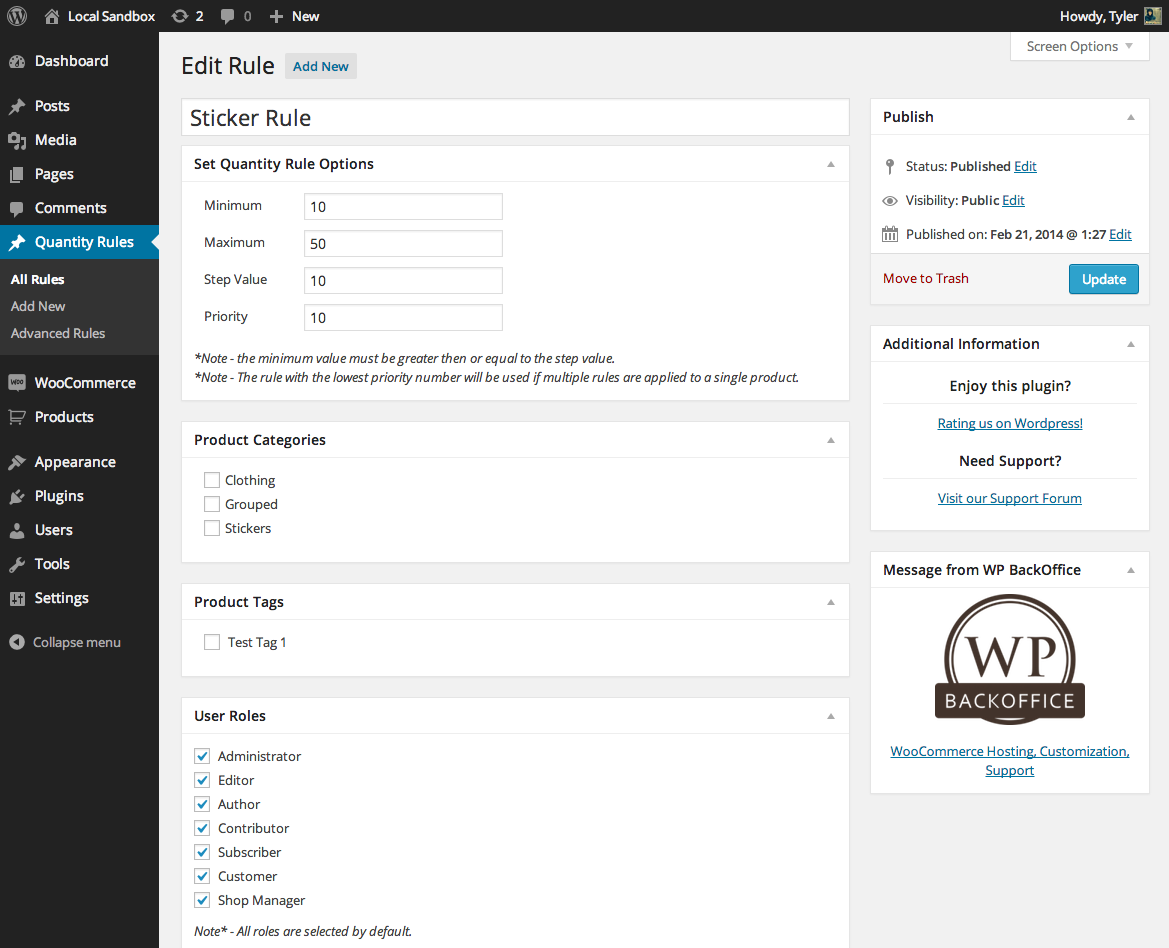
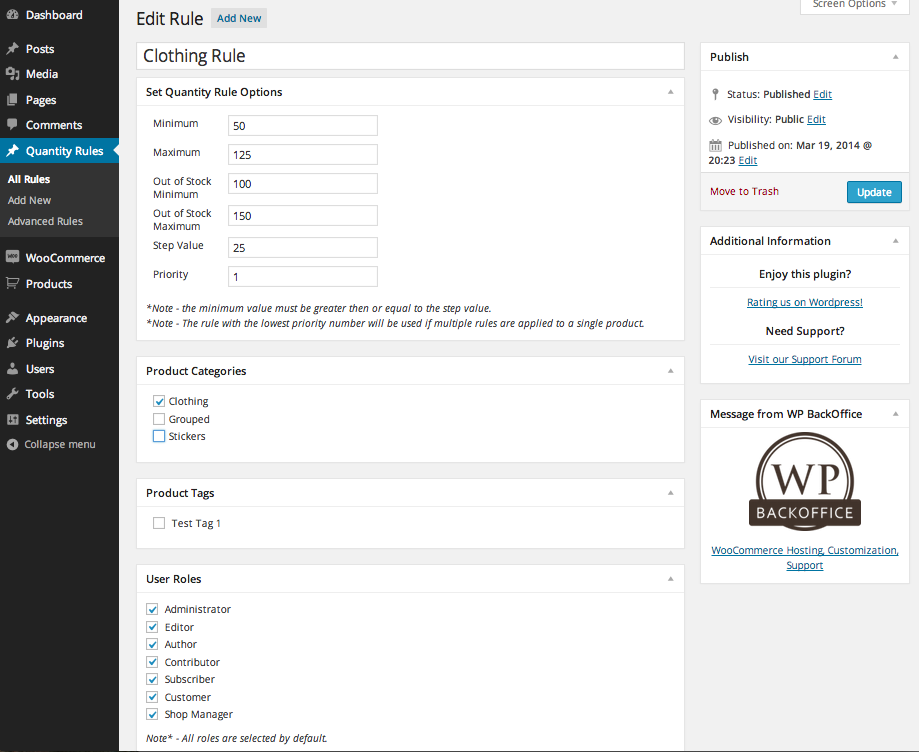
Updated out of stock functionality
Added to all possible rule groups

Changed region(s): [[0.0, 0.0, 1.0, 1.0], [0.0, 0.6729, 0.0914, 0.7035]]

diff --git a/includes/class-ipq-advanced-rules.php b/includes/class-ipq-advanced-rules.php
@@ -97,18 +97,38 @@ class IPQ_Advanced_Rules {
 		if ( isset( $_POST['ipq_site_max'] )) {
 			$max = wpbo_validate_number( $_POST['ipq_site_max'] );
 		}
+		
+		if ( isset( $_POST['ipq_site_min_oos'] )) {
+			$min_oos = wpbo_validate_number( $_POST['ipq_site_min_oos'] );
+		}
+		
+		if ( isset( $_POST['ipq_site_max_oos'] )) {
+			$max_oos = wpbo_validate_number( $_POST['ipq_site_max_oos'] );
+		}
 
-		/* Make sure min >= step */
+		// Make sure min >= step
 		if ( isset( $step ) and isset( $min ) ) {
 			if ( $min < $step ) {
 				$min = $step;
 			}
 		}
 		
-		/* Make sure min <= max */
+		// Make sure min <= max
 		if ( isset( $step ) and isset( $max ) ) {
 			if ( $min > $max and $max != '' and $max != 0 ) {
 				$max = $min;
+			}
+		}
+		
+		// Make sure min_oos <= max and max_oos
+		if ( isset( $min_oos ) and $min_oos != 0 ) {
+			if ( isset( $max_oos ) and $max_oos != 0 and
+				$min_oos > $max_oos ) {
+
+				$max_oos = $min_oos;
+			} else if ( !isset( $max_oos ) and isset ( $max ) and
+				$max != 0 and $min_oos > $max ) {
+				$min_oos = $max;
 			}
 		}
 
@@ -122,15 +142,19 @@ class IPQ_Advanced_Rules {
 			$settings['ipq_site_step'] = strip_tags( $step );
 		} 
 		
-		/* Make sure Max > Min */
+		// Site Max
 		if( isset( $_POST['ipq_site_max'] )) {
-			
-			if ( isset( $min ) and $max < $min and $max != 0 and $max != '' ) {
-				$max = $min;
-			}
-
-			// Site Maximum
 			$settings['ipq_site_max'] = strip_tags( $max );
+		}
+		
+		// Site Min OOS
+		if( isset( $_POST['ipq_site_min_oos'] )) {
+			$settings['ipq_site_min_oos'] = strip_tags( $min_oos );
+		}
+		
+				// Site Max
+		if( isset( $_POST['ipq_site_max_oos'] )) {
+			$settings['ipq_site_max_oos'] = strip_tags( $max_oos );
 		}
 
 		// Update Settings
@@ -148,7 +172,7 @@ class IPQ_Advanced_Rules {
 		if ($options == false) {
 			$options = array();
 		}
-		
+
 		extract($options);
 		$qty_text_default = "Minimum Qty: %MIN%";
 		
@@ -178,6 +202,20 @@ class IPQ_Advanced_Rules {
 						<th>Site Wide Product Maximum</th>
 						<td><input type='number' name='ipq_site_max' id='ipq_site_max'
 							value='<?php if ( isset( $ipq_site_max ) and $ipq_site_max != '' ) echo $ipq_site_max; ?>'
+						 /></td>
+					</tr>
+					
+					<tr>
+						<th>Site Wide Product Minimum Out of Stock</th>
+						<td><input type='number' name='ipq_site_min_oos' id='ipq_site_min_oos'
+							value='<?php if ( isset( $ipq_site_min_oos ) and $ipq_site_min_oos != '' ) echo $ipq_site_min_oos; ?>'
+						 /></td>
+					</tr>
+					
+					<tr>
+						<th>Site Wide Product Maximum Out of Stock</th>
+						<td><input type='number' name='ipq_site_max_oos' id='ipq_site_max_oos'
+							value='<?php if ( isset( $ipq_site_max_oos ) and $ipq_site_max_oos != '' ) echo $ipq_site_max_oos; ?>'
 						 /></td>
 					</tr>
 					
@@ -237,6 +275,10 @@ class IPQ_Advanced_Rules {
 					<td><input type='text' name='ipq_qty_class' id='ipq_qty_class' value='<?php if ( isset( $ipq_qty_class ) and $ipq_qty_class != '' ) echo $ipq_qty_class; ?>' /></td>
 				</tr>
 				
+				<tr>
+					<th>Message Shortcode</th>
+					<td>Place in product content to display message <strong>[wpbo_quantity_message]</strong></td>
+				</tr>
 			</table>
 			
 			<p class="submit" style="clear: both;">

diff --git a/includes/ipq-functions.php b/includes/ipq-functions.php
@@ -249,6 +249,18 @@ function wpbo_get_value_from_rule( $type, $product, $rule ) {
 			$max = '';
 		}
 
+		if( isset( $options['ipq_site_min_oos'] ) ) {
+			$min_oos = $options['ipq_site_min_oos'];
+		} else {
+			$min_oos = '';
+		}
+		
+		if( isset( $options['ipq_site_max_oos'] ) ) {
+			$max_oos = $options['ipq_site_max_oos'];
+		} else {
+			$max_oos = '';
+		}
+		
 		if( isset( $options['ipq_site_step'] ) ) {
 			$step = $options['ipq_site_step'];			
 		} else {
@@ -259,7 +271,9 @@ function wpbo_get_value_from_rule( $type, $product, $rule ) {
 			case 'all':
 				return array( 
 					'min_value' => $min, 
-					'max_value' => $max, 
+					'max_value' => $max,
+					'min_oos' 	=> $min_oos,
+					'max_oos' 	=> $max_oos,
 					'step' 		=> $step
 				);
 				break;
@@ -270,6 +284,14 @@ function wpbo_get_value_from_rule( $type, $product, $rule ) {
 			
 			case 'max': 
 				return array( 'max' => $max );		
+				break;
+			
+			case 'min_oos': 
+				return array( 'min_oos' => $min_oos );		
+				break;
+				
+			case 'max_oos': 
+				return array( 'max_oos' => $max_oos );		
 				break;
 				
 			case 'step':
@@ -290,6 +312,8 @@ function wpbo_get_value_from_rule( $type, $product, $rule ) {
 				return array( 
 						'min_value' => get_post_meta( $rule->ID, '_min', true ),
 						'max_value' => get_post_meta( $rule->ID, '_max', true ),
+						'min_oos'	=> get_post_meta( $rule->ID, '_min_oos', true ),
+						'max_oos'	=> get_post_meta( $rule->ID, '_max_oos', true ),
 						'step' 		=> get_post_meta( $rule->ID, '_step', true ),
 						'priority'  => get_post_meta( $rule->ID, '_priority', true ),
 						'roles' 	=> get_post_meta( $rule->ID, '_roles', true )
@@ -302,6 +326,14 @@ function wpbo_get_value_from_rule( $type, $product, $rule ) {
 			
 			case 'max': 
 				return get_post_meta( $rule->ID, '_max', true );
+				break;
+			
+			case 'min_oos': 
+				return get_post_meta( $rule->ID, '_min_oos', true );
+				break;
+				
+			case 'max_oos': 
+				return get_post_meta( $rule->ID, '_max_oos', true );
 				break;
 				
 			case 'step':
@@ -324,6 +356,7 @@ function wpbo_get_value_from_rule( $type, $product, $rule ) {
 */
 function wpbo_validate_number( $number ) {
 	
+	$number = stripslashes( $number );
 	$number = intval( $number );
 	
 	if ( $number == 0 ) {

diff --git a/includes/class-ipq-post-type.php b/includes/class-ipq-post-type.php
@@ -186,6 +186,8 @@ class IPQ_Quantity_Rule_Post_Type {
 		
 		$min  = get_post_meta( $post->ID, '_min', true);
 		$max  = get_post_meta( $post->ID, '_max', true);
+		$min_oos = get_post_meta( $post->ID, '_min_oos', true );
+		$max_oos = get_post_meta( $post->ID, '_max_oos', true );		
 		$step = get_post_meta( $post->ID, '_step', true);
 		$priority = get_post_meta( $post->ID, '_priority', true);
 		
@@ -199,6 +201,12 @@ class IPQ_Quantity_Rule_Post_Type {
 			
 				<label for="max">Maximum</label>
 				<input type="number" name="max" id="max" value="<?php echo $max ?>" />
+				
+				<label for="_wpbo_minimum_oos">Out of Stock Minimum</label>
+				<input type="number" name="min_oos" value="<?php echo $min_oos ?>" />
+				
+				<label for="_wpbo_maximum_oos">Out of Stock Maximum</label>
+				<input type="number" name="max_oos" value="<?php echo $max_oos ?>" />
 				
 				<label for="step">Step Value</label>
 				<input type="number" name="step" id="step" value="<?php echo $step ?>" />
@@ -499,9 +507,15 @@ class IPQ_Quantity_Rule_Post_Type {
 		}
 		*/
 		
+		// Get Min Out of Stock
+		if( isset( $_POST['min_oos'] ) ) {
+			$min_oos = $_POST['min_oos'];
+			update_post_meta( $post_id, '_min_oos', stripslashes( $min_oos ) );
+		}
+		
 		// Update Min
 		if ( isset( $min ) ) {
-			update_post_meta( $post_id, '_min', $min );
+			update_post_meta( $post_id, '_min', stripslashes( $min ) );
 		}
 		
 		// Update Max
@@ -514,6 +528,24 @@ class IPQ_Quantity_Rule_Post_Type {
 			}
 			
 			update_post_meta( $post_id, '_max', wpbo_validate_number( $max ) );
+		}
+		
+		// Update Max OOS
+		if ( isset( $_POST['max_oos'] ) ) {
+			$max_oos = $_POST['max_oos'];
+			
+			// Max must be bigger then min
+			if ( isset( $min_oos ) and $min_oos != 0 ) {
+				if ( $min_oos > $max_oos )
+					$max_oos = $min_oos;
+				
+			} elseif ( isset( $min ) and $min != 0 ){
+				if ( $min > $max_oos ) {
+					$max_oos = $min;
+				}
+			}
+				
+			update_post_meta( $post_id, '_max_oos', wpbo_validate_number( $max_oos ) );
 		}
 		
 		// Update Step

diff --git a/includes/class-ipq-product-meta-box.php b/includes/class-ipq-product-meta-box.php
@@ -98,6 +98,8 @@ class IPQ_Quantity_Meta_Boxes {
 						<th>Rule</th>
 						<th>Min</th>
 						<th>Max</th>
+						<th>Min OOS</th>
+						<th>Max OOS</th>
 						<th>Step</th>
 						<th>Priority</th>
 					</tr>
@@ -106,6 +108,8 @@ class IPQ_Quantity_Meta_Boxes {
 						<td><a href='<?php echo admin_url( 'edit.php?post_type=quantity-rule&page=class-ipq-advanced-rules.php' ) ?>'>Site Wide Rule</a></td>
 						<td><?php echo $values['min_value'] ?></td>
 						<td><?php echo $values['max_value'] ?></td>
+						<td><?php echo $values['min_oos'] ?></td>
+						<td><?php echo $values['max_oos'] ?></td>
 						<td><?php echo $values['step'] ?></td>
 						<td></td>
 					</tr>
@@ -131,6 +135,8 @@ class IPQ_Quantity_Meta_Boxes {
 						<th>Rule</th>
 						<th>Min</th>
 						<th>Max</th>
+						<th>Min OOS</th>
+						<th>Max OOS</th>
 						<th>Step</th>
 						<th>Priority</th>
 					</tr>
@@ -144,10 +150,14 @@ class IPQ_Quantity_Meta_Boxes {
 							<td><a href='<?php echo get_edit_post_link( $rule->ID ) ?>' target="_blank"><?php echo $rule->post_title ?></a></td>
 							<td><?php echo $values['min_value'] ?></td>
 							<td><?php echo $values['max_value'] ?></td>
+							<td><?php echo $values['min_oos'] ?></td>
+							<td><?php echo $values['max_oos'] ?></td>							
 							<td><?php echo $values['step'] ?></td>
 							<td><?php echo $values['priority'] ?></td>
 						<?php else: ?>
 							<td>None</td>
+							<td></td>
+							<td></td>
 							<td></td>
 							<td></td>
 							<td></td>
@@ -317,7 +327,7 @@ class IPQ_Quantity_Meta_Boxes {
 			);
 		}
 		
-		// Update Out of Stock Minimum
+		// Update Out of Stock Maximum
 		if( isset( $_POST['_wpbo_maximum_oos'] )) {
 		
 			$max_oos = stripslashes( $_POST['_wpbo_maximum_oos'] );

diff --git a/includes/class-ipq-actions.php b/includes/class-ipq-actions.php
@@ -65,6 +65,10 @@ class IPQ_Actions {
 	
 		global $product;
 		
+		if ( !is_product() ) {
+			return;
+		}
+		
 		if( $product->product_type == 'grouped' )
 			return;
 		
@@ -73,14 +77,39 @@ class IPQ_Actions {
 		
 		// Get minimum value for product 
 		$rule = wpbo_get_applied_rule( $product );
-		$min = wpbo_get_value_from_rule( 'min', $product, $rule );
-		$max = wpbo_get_value_from_rule( 'max', $product, $rule );
+		
+		// Return nothing if APQ is deactivated
+		if ( $rule == 'inactive' ) {
+			return; 
+		}
+		
+		// Check if the product is out of stock 
+		$stock = $product->get_stock_quantity();
+
+		// Check if the product is under stock management and out of stock
+		if ( strlen( $stock ) != 0 and $stock <= 0 ) {
+			$min = wpbo_get_value_from_rule( 'min_oos', $product, $rule );
+			$max = wpbo_get_value_from_rule( 'max_oos', $product, $rule );
+		} else {
+			$min = wpbo_get_value_from_rule( 'min', $product, $rule );
+			$max = wpbo_get_value_from_rule( 'max', $product, $rule );
+		}	
+
 		$step = wpbo_get_value_from_rule( 'step', $product, $rule );
 
 		// If sitewide rule is applied, convert return arrays to values
-		if ( $rule == 'sitewide' ) {
+		if ( $rule == 'sitewide' and strlen( $stock ) != 0 and $stock <= 0  ) {
 			if ( is_array( $min ) )
-			$min = $min['min'];
+				$min = $min['min_oos'];
+		
+			if ( is_array( $max ) )
+				$max = $max['max_oos'];
+				
+			if ( is_array( $step ) )
+				$step = $step['step'];
+		} else if ( $rule == 'sitewide' ) {
+			if ( is_array( $min ) )
+				$min = $min['min'];
 		
 			if ( is_array( $max ) )
 				$max = $max['max'];

diff --git a/README.md b/README.md
@@ -7,7 +7,7 @@ Donate Link: http://wpbackoffice.com/plugins/woocommerce-incremental-product-qua
 
 Requires at least: 2.3
 
-Tested up to: 3.83
+Tested up to: 3.91
 
 Stable tag: 2.1.3
 
